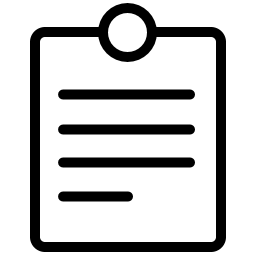
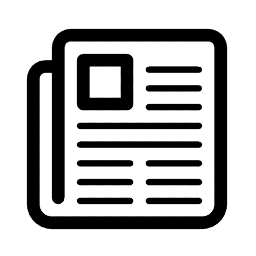
Had to push this else my git desktop broke weeeeeeeeeeee
the chances of this building are slim to none

please do not build this I AM WORKING ON IT

diff --git a/src/UI/Noticeboard.cpp b/src/UI/Noticeboard.cpp
@@ -6,6 +6,7 @@
 #include "questui/shared/BeatSaberUI.hpp"
 #include "questui/shared/CustomTypes/Components/ExternalComponents.hpp"
 #include "questui/shared/CustomTypes/Components/Backgroundable.hpp"
+#include "questui/shared/CustomTypes/Components/MainThreadScheduler.hpp"
 
 #include "VRUIControls/VRGraphicRaycaster.hpp"
 #include "UnityEngine/UI/Button.hpp"
@@ -48,7 +49,10 @@ namespace PinkCore::UI
 		// if this is the first time this viewcontroller was activated
 		if (firstActivation)
 		{
+			
+			//parentViewController->
 			INFO("NoticeBoard activated!");
+			
 			title = UIUtils::AddHeader(get_transform(), titles[state], Color(0.94f, 0.11f, 0.5f, 1.0f));
 			CreateSwitchingButtons();
 
@@ -56,7 +60,7 @@ namespace PinkCore::UI
 			ExternalComponents* components = container->GetComponent<ExternalComponents*>();
 			RectTransform* rect = components->Get<RectTransform*>();
 			rect->set_sizeDelta({0.0f, 0.0f});
-
+			rect->set_anchoredPosition({0.0f,3.0f});
 			// backgroundable for the text, gives it some borders
 			auto* backgroundable = container->GetComponent<Backgroundable*>();
 			if (!backgroundable)
@@ -70,6 +74,7 @@ namespace PinkCore::UI
 			layoutgroup->set_padding(offset);
 
 			CreateTextLayout(container->get_transform(), NoticeBoardText::get_text(), boardLayout);
+			ToggleVisibility();
 		}
 	}
 	
@@ -89,13 +94,14 @@ namespace PinkCore::UI
 
 	void NoticeBoard::CreateSwitchingButtons()
 	{
+		
 		GameObject* canvas = CreateCanvas();
 		auto* canvas_T = canvas->get_transform();
 
 		canvas_T->SetParent(get_transform(), true);
 		VerticalLayoutGroup* layout = CreateVerticalLayoutGroup(canvas_T);
 		HorizontalLayoutGroup* horizon = CreateHorizontalLayoutGroup(layout->get_transform());
-	   
+		
 		/*
 		// Adds a Background to the buttons, but I didn't like the look of it, but kept the code
 		auto* backgroundable = horizon->get_gameObject()->GetComponent<Backgroundable*>();
@@ -107,7 +113,7 @@ namespace PinkCore::UI
 		RectOffset* offset = RectOffset::New_ctor(2, 2, 2, 2);
 		horizon->set_padding(offset);
 		*/
-
+		
 		canvas_T->set_localPosition(Vector3::get_zero());
 		canvas_T->GetComponent<RectTransform*>()->set_anchoredPosition({-30.0f, 45.0f});
 
@@ -120,7 +126,7 @@ namespace PinkCore::UI
 
 		canvas_T->set_localScale(Vector3::get_one() * 0.25f);
 
-		Button* noticeBoardButton = QuestUI::BeatSaberUI::CreateUIButton(horizon->get_transform(), "", "SettingsButton", [&](){ 
+		noticeBoardButton = QuestUI::BeatSaberUI::CreateUIButton(horizon->get_transform(), "", "SettingsButton", [&](){ 
 			if (state == BoardState::Board) return;
 			state = BoardState::Board;
 			title->set_text(il2cpp_utils::newcsstr(titles[state]));
@@ -132,7 +138,7 @@ namespace PinkCore::UI
 
 		UIUtils::SwapButtonSprites(noticeBoardButton, VectorToSprite(std::vector<uint8_t>(_binary_Mango_png_start, _binary_Mango_png_end)), VectorToSprite(std::vector<uint8_t>(_binary_MangoActive_png_start, _binary_MangoActive_png_end)));
 
-		Button* donationButton = QuestUI::BeatSaberUI::CreateUIButton(horizon->get_transform(), "", "SettingsButton", [&](){ 
+		donationButton = QuestUI::BeatSaberUI::CreateUIButton(horizon->get_transform(), "", "SettingsButton", [&](){ 
 			if (state == BoardState::Donation) return;
 			state = BoardState::Donation;
 			title->set_text(il2cpp_utils::newcsstr(titles[state]));
@@ -146,11 +152,12 @@ namespace PinkCore::UI
 		
 		LayoutElement* layoutelem = horizon->get_gameObject()->AddComponent<LayoutElement*>();
 		layoutelem->set_preferredHeight(30.0f);
-		layoutelem->set_preferredWidth(90.0f);
+		layoutelem->set_preferredWidth(85.0f);
 	}
 
 	void NoticeBoard::CreateTextLayout(Transform* parent, const std::string& text, GameObject*& output)
 	{
+		
 		HorizontalLayoutGroup* horizon = CreateHorizontalLayoutGroup(parent);
 		VerticalLayoutGroup* layout = CreateVerticalLayoutGroup(horizon->get_transform());
 
@@ -166,9 +173,20 @@ namespace PinkCore::UI
 		layout->set_childForceExpandWidth(true);
 		horizon->set_childControlWidth(true);
 		horizon->set_childForceExpandWidth(true);
-		noticelayout->set_preferredWidth(80.f);
+		noticelayout->set_preferredWidth(85.f);
 
 		output = horizon->get_gameObject();
+	}
+
+	void NoticeBoard::ToggleVisibility()
+	{
+		if(container == nullptr) return;
+		bool activity = !container->get_active();
+		container->SetActive(activity);
+		title->get_transform()->get_parent()->get_gameObject()->SetActive(activity);
+		noticeBoardButton->get_gameObject()->SetActive(activity);
+		donationButton->get_gameObject()->SetActive(activity);
+
 	}
 
 }

diff --git a/src/Hooks/NoticeBoardHooks.cpp b/src/Hooks/NoticeBoardHooks.cpp
@@ -1,22 +1,53 @@
 #include "beatsaber-hook/shared/utils/logging.hpp"
 #include "beatsaber-hook/shared/utils/hooking.hpp"
 #include "logging.hpp"
+#include "assets.hpp"
 #include "hooks.hpp"
 #include "UI/Noticeboard.hpp"
 #include "GlobalNamespace/MainFlowCoordinator.hpp"
 #include "GlobalNamespace/PlayerStatisticsViewController.hpp"
+#include "GlobalNamespace/MainMenuViewController.hpp"
 #include "HMUI/ViewController.hpp"
+#include "HMUI/HoverHint.hpp"
+#include "HMUI/ButtonSpriteSwap.hpp"
 #include "HMUI/ViewController_AnimationType.hpp"
+#include "questui/shared/BeatSaberUI.hpp"
 
 #include "UnityEngine/SceneManagement/Scene.hpp"
 #include "UnityEngine/SceneManagement/SceneManager.hpp"
+#include "UnityEngine/UI/Button.hpp"
+#include "UnityEngine/Events/UnityAction.hpp"
+#include "questui/shared/CustomTypes/Components/MainThreadScheduler.hpp"
 
 #include "Utils/NoticeBoardText.hpp"
 #include "Utils/DonationText.hpp"
 #include "Polyglot/Localization.hpp"
-#include "logging.hpp"
 
 bool firstWarmup = true;
+bool setIcons = false;
+#define MakeDelegate(DelegateType, varName) (il2cpp_utils::MakeDelegate<DelegateType>(classof(DelegateType), varName))
+
+MAKE_AUTO_HOOK_MATCH(MainMenuViewController_DidActivate, &GlobalNamespace::MainMenuViewController::DidActivate, void, GlobalNamespace::MainMenuViewController* self, bool firstActivation, bool addedToHierarchy, bool screenSystemEnabling)
+{
+    MainMenuViewController_DidActivate(self, firstActivation, addedToHierarchy, screenSystemEnabling); 
+    if(setIcons) return; 
+    //reusing the editor button
+    auto newsButton = UnityEngine::GameObject::Instantiate(self->beatmapEditorButton->get_gameObject(), self->beatmapEditorButton->get_transform()->get_parent(), false);
+	newsButton->get_gameObject()->set_active(true);
+	QuestUI::BeatSaberUI::AddHoverHint(newsButton, "Beat Saber Modding News");
+    //swap the default button icons to our own button images
+    HMUI::ButtonSpriteSwap* spriteSwap = newsButton->get_gameObject()->GetComponent<HMUI::ButtonSpriteSwap*>();
+    auto highlightedImage = QuestUI::BeatSaberUI::VectorToSprite(std::vector<uint8_t>(_binary_MainMenuIconHighlight_png_start,_binary_MainMenuIconHighlight_png_end));
+    auto defaultImage = QuestUI::BeatSaberUI::VectorToSprite(std::vector<uint8_t>(_binary_MainMenuIcon_png_start,_binary_MainMenuIcon_png_end));
+    spriteSwap->normalStateSprite = defaultImage;
+    spriteSwap->highlightStateSprite = highlightedImage;
+    spriteSwap->pressedStateSprite = highlightedImage;
+    spriteSwap->disabledStateSprite = defaultImage;
+    setIcons = true;
+	newsButton->GetComponent<UnityEngine::UI::Button*>()->get_onClick()->AddListener(MakeDelegate(UnityEngine::Events::UnityAction*, (std::function<void()>)[](){ PinkCore::UI::NoticeBoard::get_instance()->ToggleVisibility(); }));
+	newsButton->get_transform()->SetSiblingIndex(newsButton->get_transform()->GetSiblingIndex()-1);
+}
+
 MAKE_AUTO_HOOK_MATCH(SceneManager_SetActiveScene, &UnityEngine::SceneManagement::SceneManager::SetActiveScene, bool, UnityEngine::SceneManagement::Scene scene)
 {
 	StringW sceneNameCS = scene.get_name();
@@ -54,10 +85,9 @@ MAKE_AUTO_HOOK_MATCH(MainFlowCoordinator_DidActivate, &GlobalNamespace::MainFlow
 }
 
 // using unsafe cause I can't bother with actually getting the types correct since they are irrelevant anyways
-MAKE_HOOK_FIND_CLASS_UNSAFE_INSTANCE(MenuTransitionsHelper_RestartGame, "", "MenuTransitionsHelper", "RestartGame", void, Il2CppObject* self, Il2CppObject* finishCallback)
+MAKE_AUTO_HOOK_FIND_CLASS_UNSAFE_INSTANCE(MenuTransitionsHelper_RestartGame, "", "MenuTransitionsHelper", "RestartGame", void, Il2CppObject* self, Il2CppObject* finishCallback)
 {
 	PinkCore::UI::NoticeBoard::clear_instance();
+	setIcons = false;
 	MenuTransitionsHelper_RestartGame(self, finishCallback);
 }
-
-AUTO_INSTALL(MenuTransitionsHelper_RestartGame);

diff --git a/include/UI/Noticeboard.hpp b/include/UI/Noticeboard.hpp
@@ -3,6 +3,7 @@
 #include "custom-types/shared/macros.hpp"
 #include "UnityEngine/GameObject.hpp"
 #include "UnityEngine/Transform.hpp"
+#include "UnityEngine/UI/Button.hpp"
 #include "HMUI/ViewController.hpp"
 
 #include "TMPro/TextMeshProUGUI.hpp"
@@ -18,10 +19,14 @@ DECLARE_CLASS_CODEGEN(PinkCore::UI, NoticeBoard, HMUI::ViewController,
 	DECLARE_INSTANCE_FIELD(UnityEngine::GameObject*, boardLayout);
 	DECLARE_INSTANCE_FIELD(UnityEngine::GameObject*, donationLayout);
 	DECLARE_INSTANCE_FIELD(TMPro::TextMeshProUGUI*, title);
+	DECLARE_INSTANCE_FIELD(UnityEngine::UI::Button*, noticeBoardButton);
+	DECLARE_INSTANCE_FIELD(UnityEngine::UI::Button*, donationButton);
 
 	public:
 		static PinkCore::UI::NoticeBoard* get_instance();
 		static void clear_instance();
+		void ToggleVisibility();
+
 	private:
 		static PinkCore::UI::NoticeBoard* instance;
 		BoardState state = Board;

diff --git a/include/hooks.hpp b/include/hooks.hpp
@@ -63,3 +63,16 @@ struct Hook_##name_ { \
 }; \
 AUTO_INSTALL_ORIG(name_) \
 retval Hook_##name_::hook_##name_(__VA_ARGS__)
+
+#define MAKE_AUTO_HOOK_FIND_CLASS_UNSAFE_INSTANCE(name_, namespaze, klassName, mName, retval, ...) \
+struct Hook_##name_ { \
+    constexpr static const char* name() { return #name_; } \
+    static const MethodInfo* getInfo() { return ::il2cpp_utils::MethodTypeCheck<funcType>::find_unsafe(namespaze, klassName, mName, true); } \
+    using funcType = retval (*)(__VA_ARGS__); \
+    static funcType* trampoline() { return &name_; } \
+    static inline retval (*name_)(__VA_ARGS__) = nullptr; \
+    static funcType hook() { return &::Hooking::HookCatchWrapper<&hook_##name_, funcType>::wrapper; } \
+    static retval hook_##name_(__VA_ARGS__); \
+}; \
+AUTO_INSTALL_ORIG(name_) \
+retval Hook_##name_::hook_##name_(__VA_ARGS__)

diff --git a/include/assets.hpp b/include/assets.hpp
@@ -3,6 +3,12 @@
 DECLARE_FILE(Donation_png,)
 DECLARE_FILE(DonationActive_png,)
 DECLARE_FILE(Info_png,)
+DECLARE_FILE(MainMenuIcon_png,)
+DECLARE_FILE(MainMenuIconEmpty_png,)
+DECLARE_FILE(MainMenuIconEmptyHighlight_png,)
+DECLARE_FILE(MainMenuIconFlashing_png,)
+DECLARE_FILE(MainMenuIconHighlight_png,)
+DECLARE_FILE(MainMenuIconHighlightFlashing_png,)
 DECLARE_FILE(Mango_png,)
 DECLARE_FILE(MangoActive_png,)
 DECLARE_FILE(MissingSprite_png,)

diff --git a/src/main.cpp b/src/main.cpp
@@ -52,5 +52,5 @@ extern "C" void load()
 
 	custom_types::Register::AutoRegister();
 
-	QuestUI::Register::RegisterModSettingsFlowCoordinator<PinkCore::UI::PinkCoreFlowCoordinator*>({ID, VERSION});
+	QuestUI::Register::RegisterAllModSettingsFlowCoordinator<PinkCore::UI::PinkCoreFlowCoordinator*>({ID, VERSION});
 }
